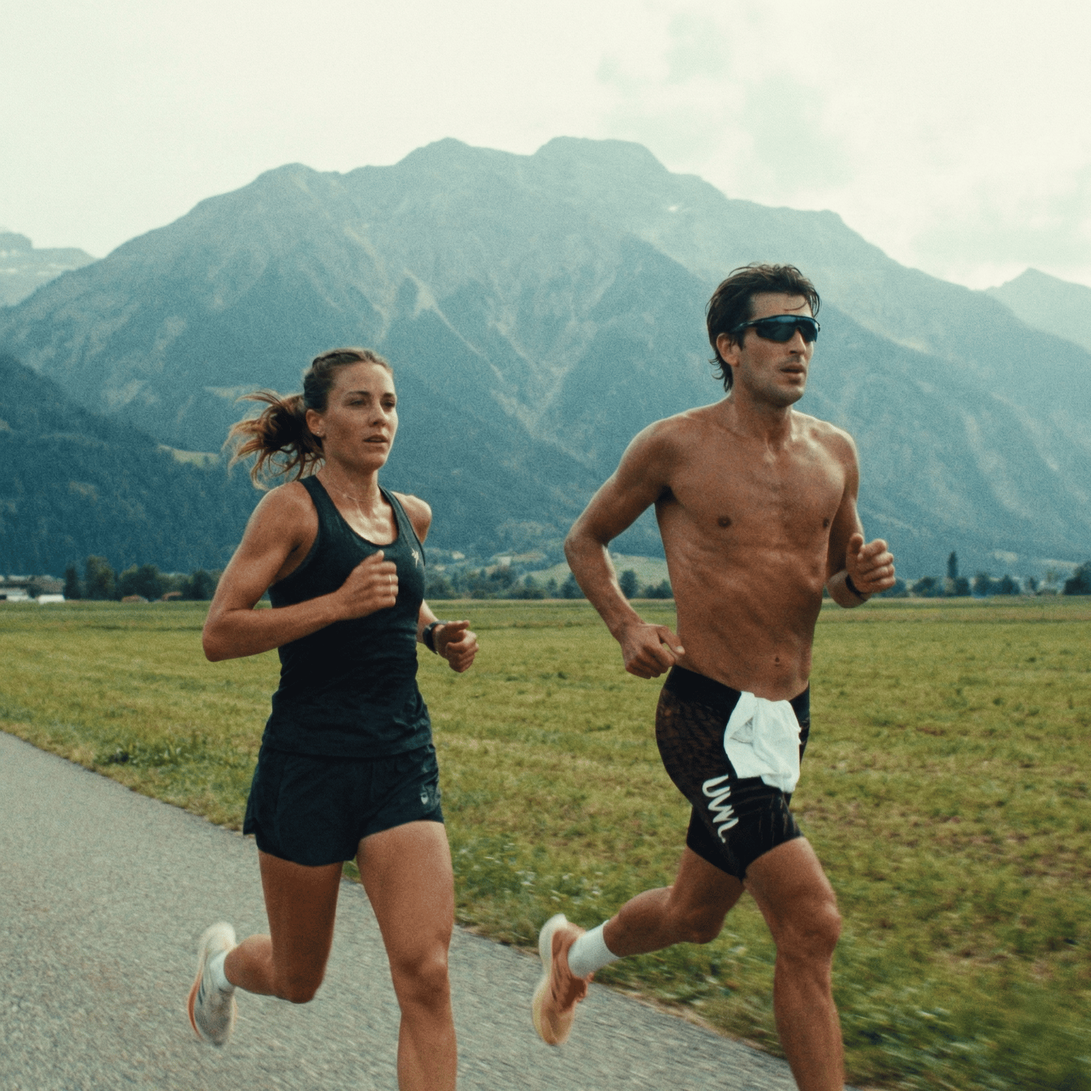
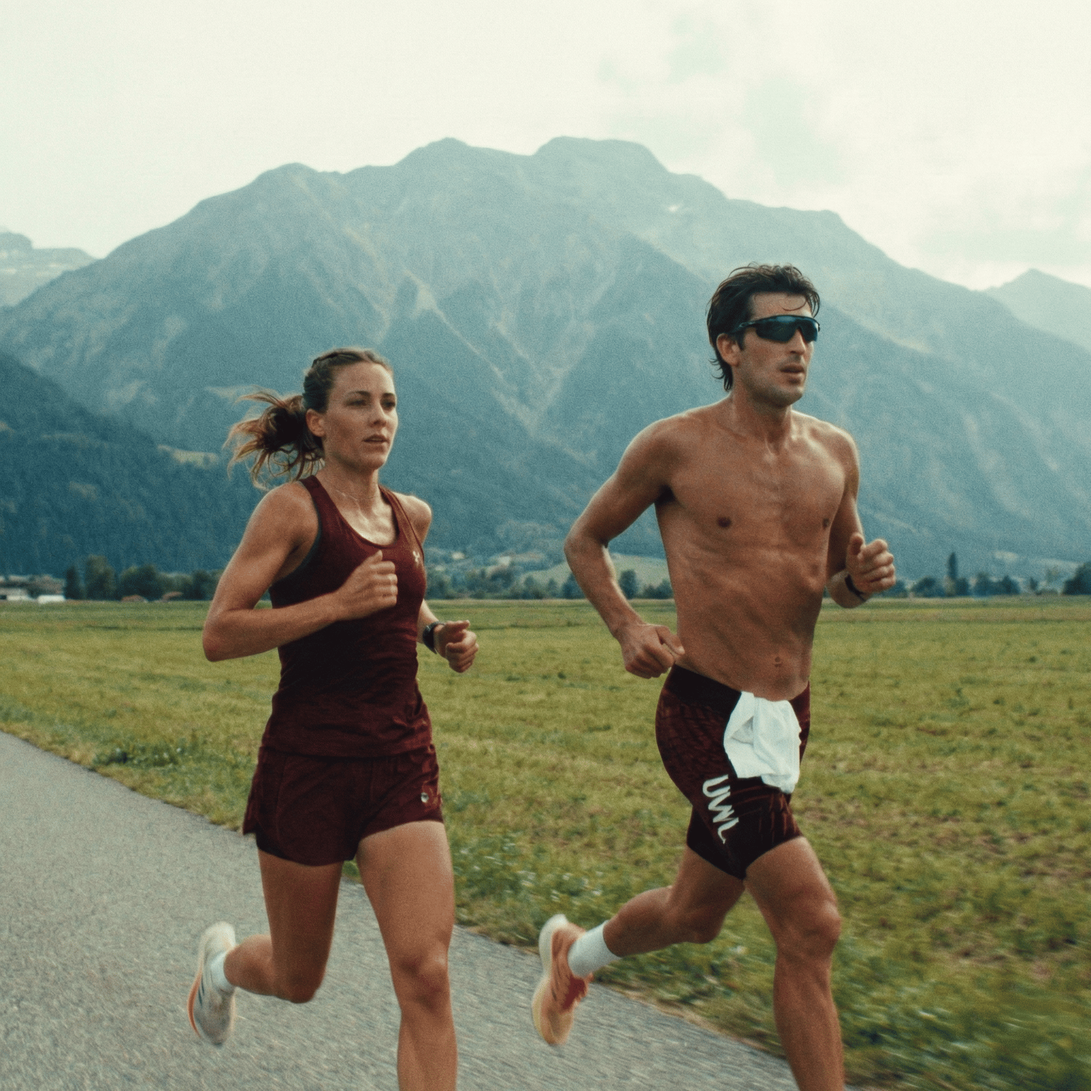
Update PDP layout and Forschung images

diff --git a/shopify-dawn/assets/theme.css b/shopify-dawn/assets/theme.css
@@ -1868,7 +1868,7 @@ html {
 
 .pdp-hero-title {
   margin: 0;
-  font-family: "AG1 Serif", "Times New Roman", serif;
+  font-family: "AG1 Sans", "Inter", system-ui, sans-serif;
   font-size: clamp(48px, 5vw, 68px);
   line-height: 0.95;
   font-weight: 400;
@@ -6989,6 +6989,8 @@ html {
 
 .forschung-media-img--strains {
   object-position: center 55%;
+  transform: scale(1.16);
+  transform-origin: center;
 }
 
 .forschung-media-img--bio {
@@ -7314,6 +7316,12 @@ html {
   align-items: start;
 }
 
+.pdp-timeline-left {
+  display: flex;
+  flex-direction: column;
+  gap: 14px;
+}
+
 .pdp-timeline-track {
   position: relative;
   padding-left: 32px;
@@ -7413,11 +7421,11 @@ html {
 }
 
 .pdp-timeline-howto {
-  margin-top: 24px;
+  margin: 0 0 24px;
   display: flex;
   align-items: center;
   gap: 20px;
-  padding: 22px 26px;
+  padding: 24px 28px;
   background: #f5f4ee;
   border-radius: 14px;
   max-width: 540px;
@@ -7568,9 +7576,9 @@ html {
 }
 
 .pdp-ingredient-chip.active {
-  background: #0c0c0c;
-  color: #ffffff;
-  border-color: #0c0c0c;
+  background: rgba(60, 12, 28, 0.12);
+  color: #3c0c1c;
+  border-color: rgba(60, 12, 28, 0.55);
 }
 
 .pdp-chip-dot {
@@ -7584,7 +7592,7 @@ html {
 
 .pdp-ingredient-chip.active .pdp-chip-dot {
   background: #3c0c1c;
-  box-shadow: 0 0 0 3px rgba(60, 12, 28, 0.25);
+  box-shadow: 0 0 0 3px rgba(60, 12, 28, 0.16);
 }
 
 .pdp-ingredients-more {
